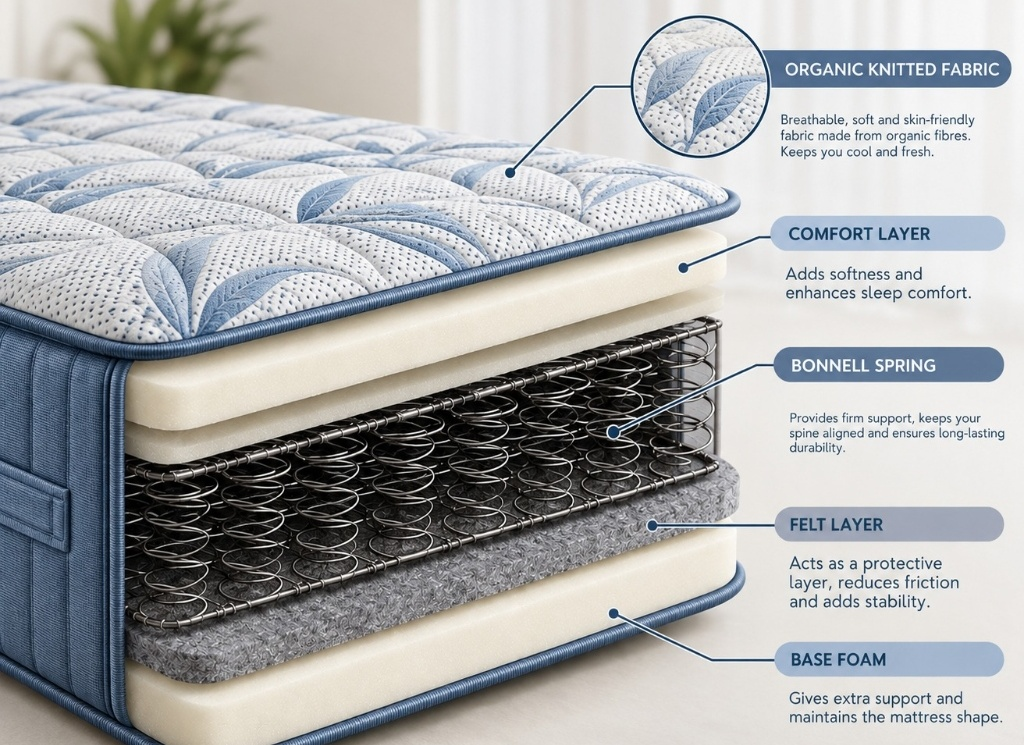
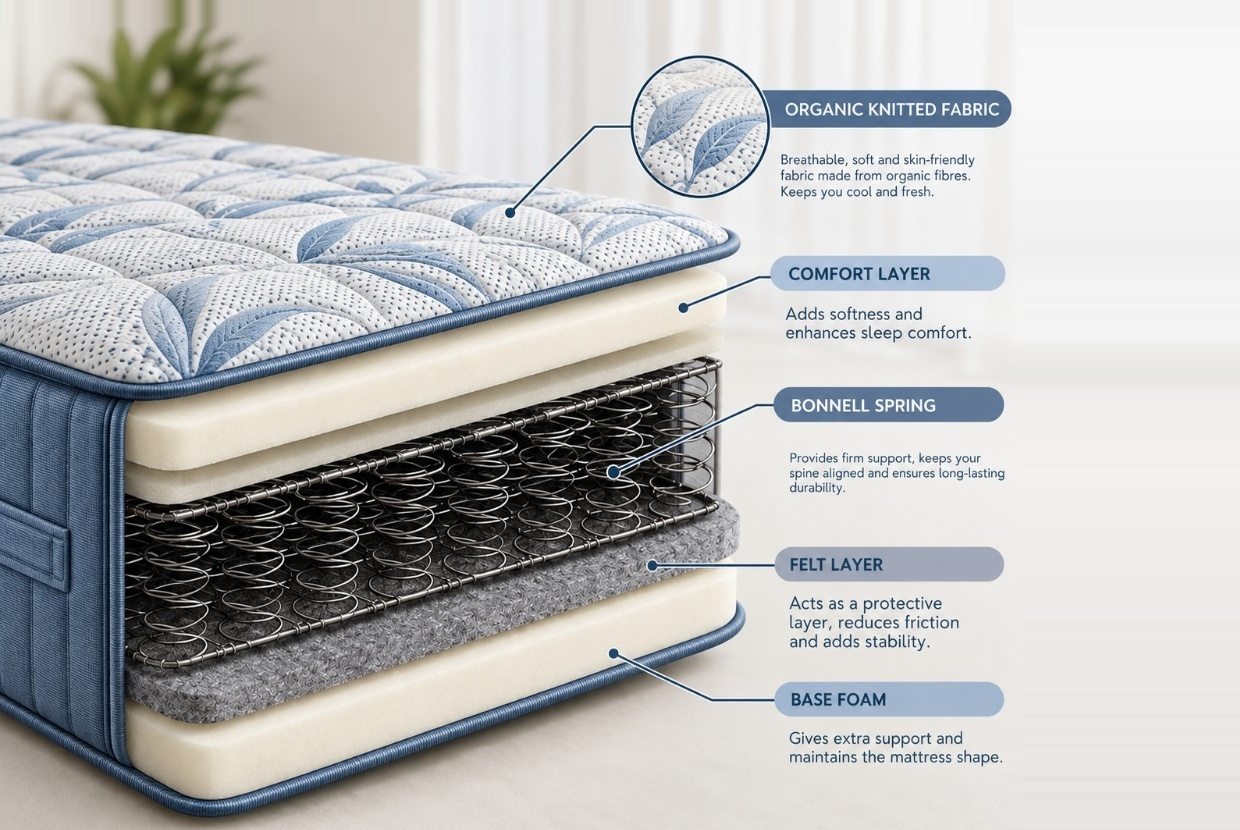
added bonnel spring mattress

diff --git a/components/ProductsSection.tsx b/components/ProductsSection.tsx
@@ -1020,7 +1020,7 @@ function ProductCard({
         style={{
           position: 'relative',
           background: '#FFFFFF',
-          height: '240px',
+          height: '255px',
           display: 'flex',
           alignItems: 'center',
           justifyContent: 'center',
@@ -1061,30 +1061,29 @@ function ProductCard({
         >
           {product.warranty}
         </span>
-        {/* Category tag */}
-        <span
-          style={{
-            position: 'absolute',
-            bottom: '12px',
-            right: '12px',
-            zIndex: 2,
-            background: '#1A1A1A',
-            color: '#fff',
-            fontSize: '10px',
-            fontWeight: 700,
-            padding: '4px 10px',
-            borderRadius: '50px',
-            letterSpacing: '0.05em',
-            textTransform: 'uppercase',
-            boxShadow: '0 2px 8px rgba(0,0,0,0.12)',
-          }}
-        >
-          {product.category}
-        </span>
       </div>
 
       {/* Info */}
       <div style={{ padding: '24px', display: 'flex', flexDirection: 'column', flex: 1 }}>
+        <div style={{ display: 'flex', alignItems: 'center', justifyContent: 'space-between', marginBottom: '8px' }}>
+          <span
+            style={{
+              fontSize: '11px',
+              fontWeight: 700,
+              color: '#E51D24',
+              textTransform: 'uppercase',
+              letterSpacing: '0.08em',
+              background: 'rgba(229,29,36,0.08)',
+              padding: '4px 10px',
+              borderRadius: '50px',
+            }}
+          >
+            {product.category}
+          </span>
+          <span style={{ fontSize: '11px', fontWeight: 600, color: '#888' }}>
+            {product.seriesBadge}
+          </span>
+        </div>
         <h3 style={{ fontSize: '19px', fontWeight: 700, color: '#1A1A1A', marginBottom: '6px' }}>
           {product.name}
         </h3>
